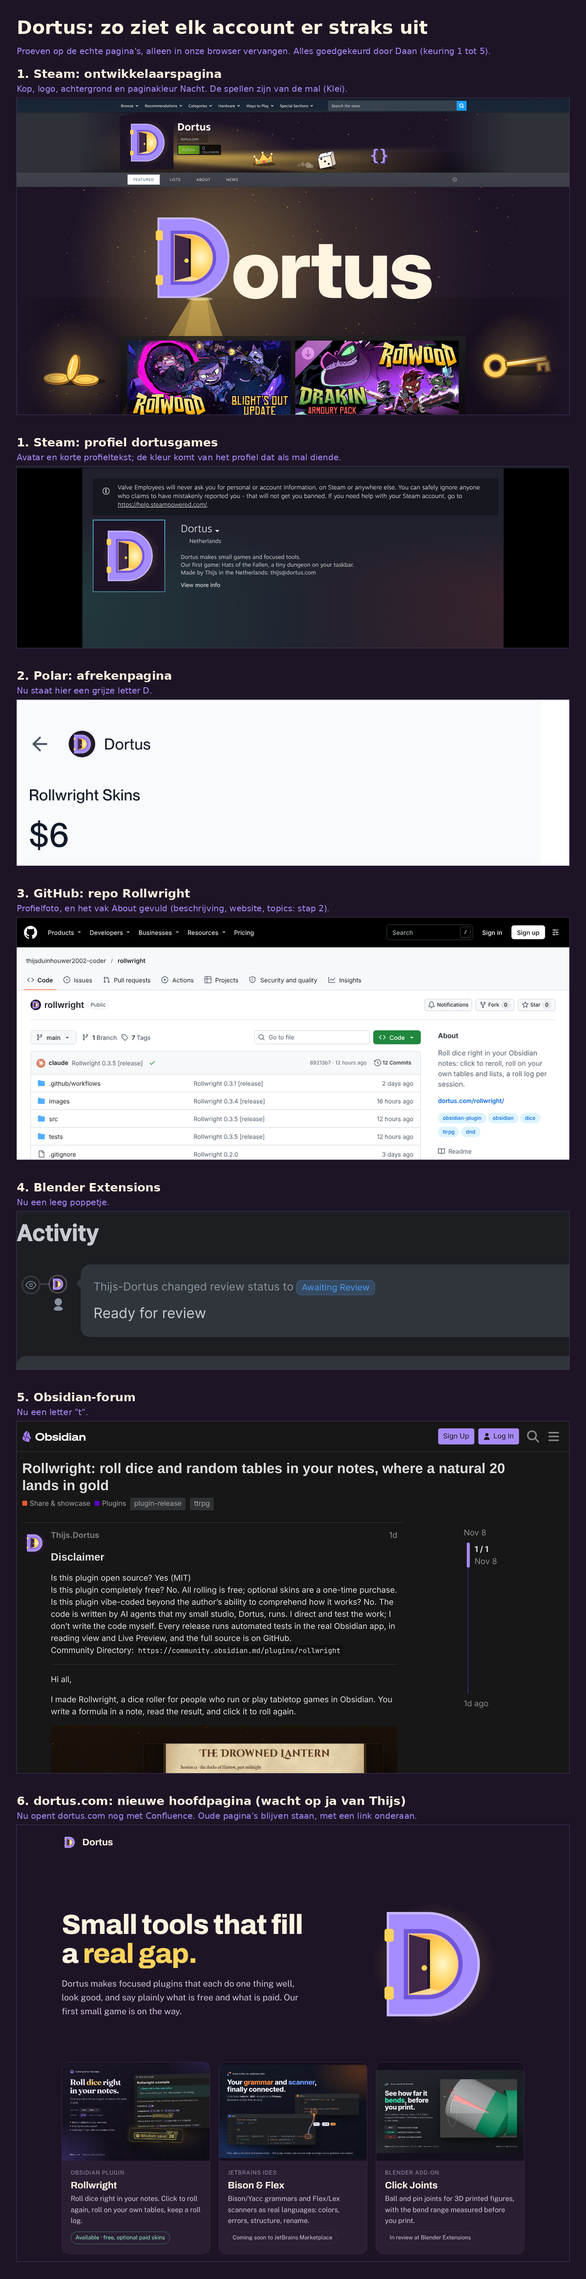
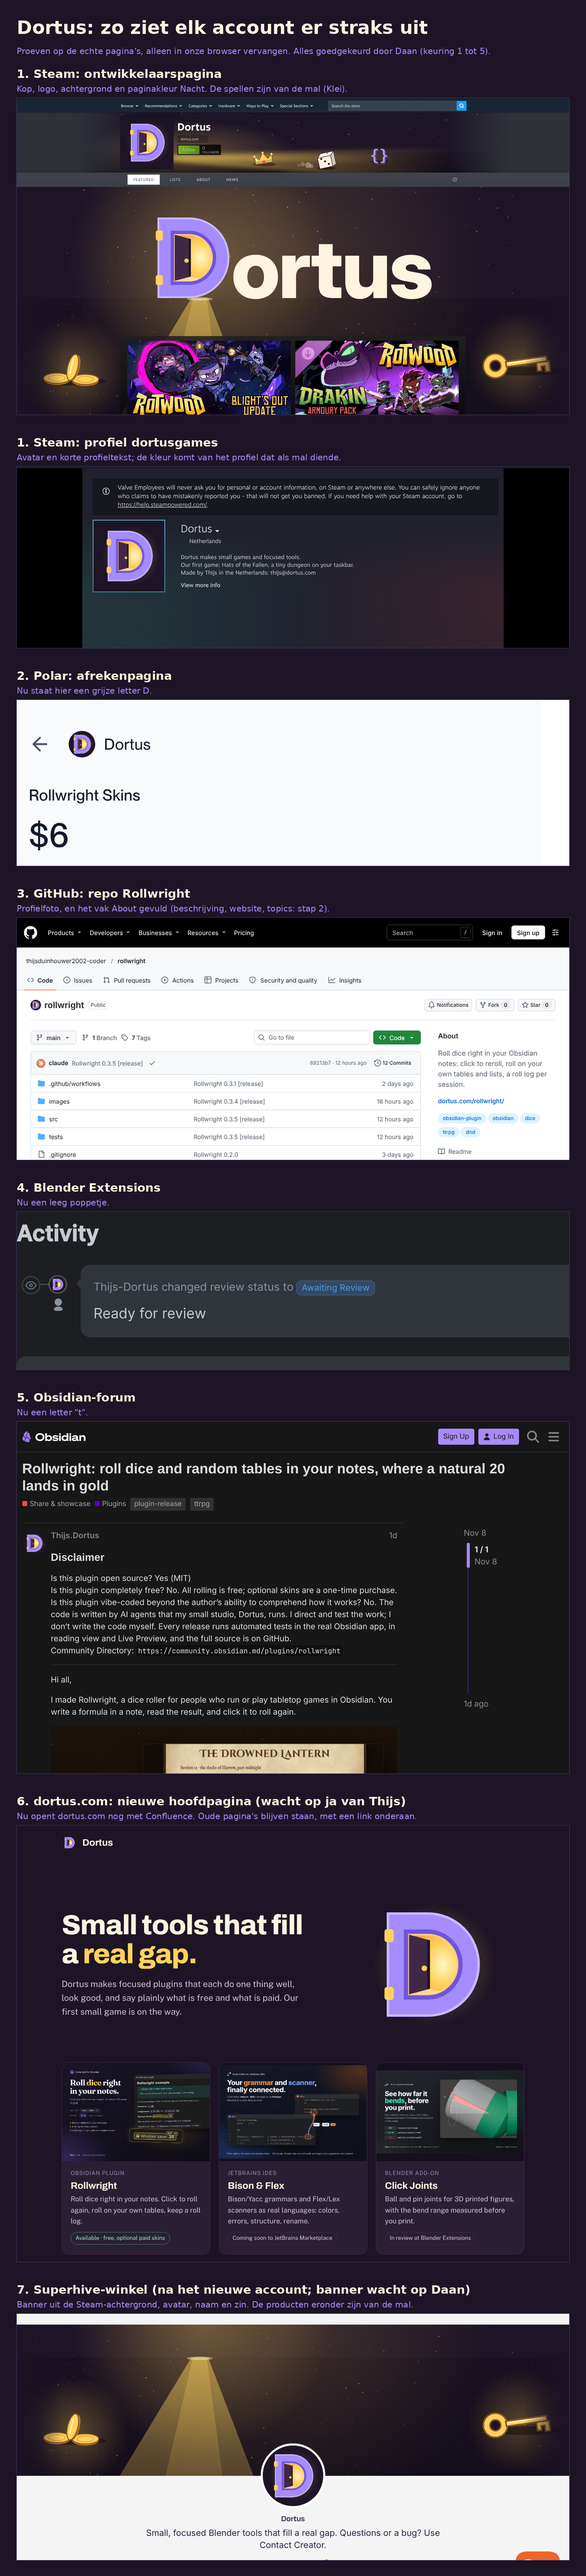
Abel run 8: Superhive in het overzichtsblad (rij 7)
Claude-Session: https://claude.ai/code/session_01RMWUyk7UXAopT8WPA16xkq

diff --git a/platformen/abel/merk/bron/abel_overzicht.py b/platformen/abel/merk/bron/abel_overzicht.py
@@ -12,6 +12,7 @@ rijen=[
  ('4. Blender Extensions','proef/blender-avatar-uitsnede.png',None,'Nu een leeg poppetje.'),
  ('5. Obsidian-forum','proef/obsidian-draad-dark.png',None,'Nu een letter "t".'),
  ('6. dortus.com: nieuwe hoofdpagina (wacht op ja van Thijs)','../dortus-com/voorbeeld-desktop.png',(0,0,1280,1010),'Nu opent dortus.com nog met Confluence. Oude pagina\'s blijven staan, met een link onderaan.'),
+ ('7. Superhive-winkel (na het nieuwe account; banner wacht op Daan)','proef/superhive-winkel-1280.png',(0,80,1280,650),'Banner uit de Steam-achtergrond, avatar, naam en zin. De producten eronder zijn van de mal.'),
 ]
 blokken=[]
 for kop,f,crop,uitleg in rijen:

diff --git a/platformen/abel/klaar.md b/platformen/abel/klaar.md
@@ -19,7 +19,7 @@ Bewuste uitzondering: op Steam (profiel en groep) noemen we Hats of the Fallen w
 `platformen/abel/upload/` (per account een map, bestandsnamen zeggen waar ze heen gaan, met `LEESMIJ.md`) en hetzelfde als één zip: `platformen/abel/dortus-beelden.zip` (0,8 MB). Thijs hoeft dus niet in `merk/` te zoeken tussen v1, v1b, v2 en v3. Opnieuw maken: `sh merk/bron/maak_upload.sh` (maakt v2b, de goedgekeurde versie). Alle tien bestanden samen bekeken op 10 nov 05:25.
 
 ## Zo ziet het eruit (proeven op echte pagina's, alleen in onze browser vervangen)
-**Alles op één blad: `merk/proef/overzicht-alle-accounts.png`** (Steam pagina en profiel, Polar, GitHub, Blender, Obsidian en de nieuwe hoofdpagina van dortus.com onder elkaar; goed om Thijs als eerste te laten zien). Opnieuw maken: `python3 merk/bron/abel_overzicht.py` vanuit `merk/`.
+**Alles op één blad: `merk/proef/overzicht-alle-accounts.png`** (Steam pagina en profiel, Polar, GitHub, Blender, Obsidian, de nieuwe hoofdpagina van dortus.com en de Superhive-winkel onder elkaar; goed om Thijs als eerste te laten zien). Opnieuw maken: `python3 merk/bron/abel_overzicht.py` vanuit `merk/`.
 - Steam-ontwikkelaarspagina, definitief (avatar v2, kop v2, logo v2b, achtergrond v3, paginakleur Nacht): `merk/proef/steam-pagina-definitief-1920.png` en `-1280.png` (opnieuw gemaakt 10 nov 05:23 met logo v2b; de spellen in de proef zijn van Klei, de pagina die ik als mal gebruikte). Breed scherm: `steam-pagina-v3-nacht-op-steam-2560.png`.
 - Steam-profiel: `merk/proef/steam-profiel-kort-op-steam.png`
 - Polar-afrekenpagina: `merk/proef/polar-afrekenen-uitsnede.png` (nu staat daar een grijze letter D)
@@ -63,4 +63,3 @@ Niet op Blender Artists, het Godot-forum en r/ObsidianMD: daar zijn door AI gesc
 - ~~Obsidian: plek van het vinkje~~ opgelost: Preferences > Profile, bovenaan (broncode Discourse).
 - Steam: paginakleur instellen is door Valve beschreven en aangeraden (docs); alleen de exacte knopnaam heb ik niet gezien.
 - Superhive: Daans ja op de banner (gevraagd 10 nov 07:45). Bij nee alleen de avatar zetten en de banner leeg laten; het plan zegt hoe. Ook niet gezien: het instellingenscherm zelf (alleen na inloggen); veldnamen komen uit Superhive's eigen hulppagina's.
-- Superhive staat nog niet in het overzichtsblad (`overzicht-alle-accounts.png`); de drie proeven staan los in `merk/proef/`.

diff --git a/platformen/abel/logboek.md b/platformen/abel/logboek.md
@@ -105,4 +105,4 @@ Alleen aanvullen, nooit weghalen.
 - Beschrijving zonder antwoordtijd. Waarom: niemand leest die berichten nu elke dag; geen belofte die we niet halen.
 - `upload/7-superhive/` en de zip opnieuw gemaakt (cmp nagemeten). Keuring 6 gevraagd aan Daan; Bram ter info (productpagina is van hem). Regel op lijst-thijs direct onder het punt van Hans.
 - `klaar.md` versie 7, definitief.
-- Volgende run (08:19, laatste): Daans antwoord op de banner verwerken (ja: niets doen; nee: banner uit plan en upload); Superhive in het overzichtsblad zetten; klaar.md nalezen.
+- Volgende run (08:19, laatste): Daans antwoord op de banner verwerken (ja: niets doen; nee: banner uit plan en upload); klaar.md nalezen (Superhive staat sinds run 8 al in het overzichtsblad, rij 7).
